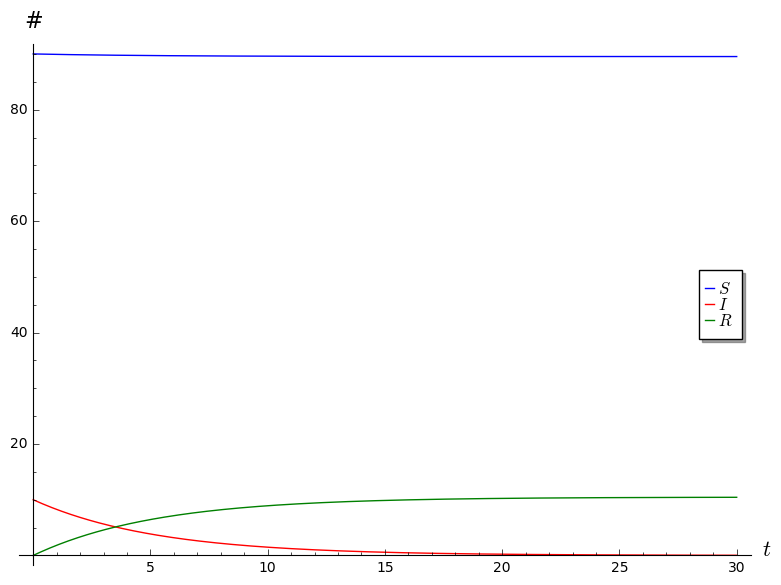
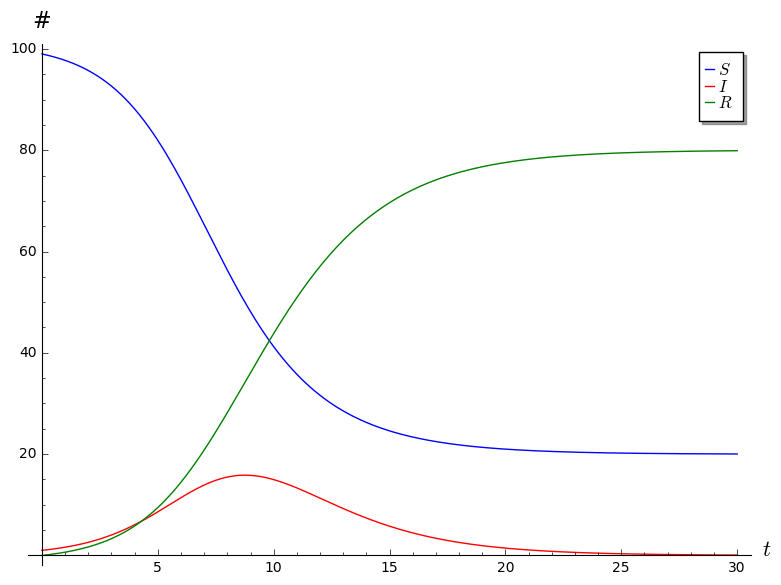
sir

diff --git a/_site/misc/index.html b/_site/misc/index.html
@@ -60,7 +60,7 @@ Shishir Agrawal — Miscellaneous
 <li><a href="https://jekyllrb.com/">Jekyll</a> (with plugins <a href="https://github.com/inukshuk/jekyll-scholar">Jekyll Scholar</a> and <a href="https://github.com/mfenner/jekyll-pandoc">Jekyll Pandoc</a>)</li>
 <li><a href="https://inkscape.org/">Inkscape</a></li>
 </ul>
-<p>The website was last updated on November 7, 2019.</p>
+<p>The website was last updated on November 8, 2019.</p>
 
 </main>
 

diff --git a/teaching/fa19-b3_ma315/sir-revised.md b/teaching/fa19-b3_ma315/sir-revised.md
@@ -1,0 +1,211 @@
+---
+layout: default
+title: SIR Project
+bannertext: Fall 2019, Block 3 — MA315
+bannerlink: teaching/fa19-b3_ma315
+nonav: true
+---
+
+# SIR Project
+
+This project[^reference] asks you to explore an ODE model that is used in epidemiology. The output of this project is a report. You're strongly encouraged to discuss with each other, but you should write up your report individually in your own words. One part of the project will involve generating some data in groups; your analysis should still be written up individually.
+
+[^reference]: This project is adapted from the SIR project described by Stanley Florkowski and Ryan Miller on [SIMIODE](https://www.simiode.org/resources/4796/download/6-018-S-ExploringSIRModel-StudentVersion.pdf?b192279d45ce41a0fded95960ba3c998=1), and from ideas I got from conversations with Andrea Bruder.
+
+Email me your report as a PDF by 11:59pm on 3rd Wednesday.
+
+## Introduction
+
+A *compartmental model* in epidemiology is one that divides the population into various groups (or compartments) in order to model the spread of an infection. The SIR model is an important example of a compartment model; it uses a nonlinear system of ODEs to model the spread of a non-fatal infection through a population. It derives its name from the names of the three groups that it divides the population into:
+
+1. The people that are <strong>S</strong>usceptible to catching the disease but are currently uninfected.
+2. The people that are currently <strong>I</strong>nfected.
+3. The people that are immune to the disease, either inherently, or because they have <strong>R</strong>ecovered from the infection and have now developed immunity.
+
+Let $t$ denote the number of days that have elapsed since the infection begins to spread; we let $S(t)$, $I(t)$, and $R(t)$ be the number of people in each of the above categories on day $t$. The model makes several simplifying assumptions and uses it to derive a system of ODEs satisfied by the functions $S$, $I$, and $R$.
+
+1. The total population $$N = S(t) + I(t) + R(t)$$ is always constant. In other words, this model makes the most sense for infections that spread in relatively short periods of time (much shorter than the life span of a human being) and do not kill off those who get infected.
+
+2. Each infected person infects a fixed fraction, $b$, of susceptible people every day. In other words, each infected person causes $bS(t)$ new infections on day $t$, so $dS/dt = -bSI$.
+
+3. A fixed fraction, $c$, of infected individuals recover every day. In other words, $dR/dt = cI$.
+
+Putting the above assumptions together, we find $dI/dt = bSI - cI$. In other words, the SIR model asserts that the functions $S$, $I$, and $R$ satisfy the following system of ODEs.
+$$\begin{aligned}
+\frac{dS}{dt} &= -bSI \\
+\frac{dI}{dt} &= bSI - cI \\
+\frac{dR}{dt} &= cI
+\end{aligned}$$
+
+## Part 1
+
+Answer the following questions.
+
+1. Why does it make sense for $dS/dt$ to be negative and $dR/dt$ to be positive?
+2. What real world constraints does our model impose on the parameters $b$ and $c$?
+3. Explain how one derives the equation for $dI/dt$ from the other three equations.
+4. What terms make this system of ODEs nonlinear?
+5. What should happen to $S(t), I(t)$ and $R(t)$ as $t \to \infty$?
+6. Prove that, if $S(0) < c/b$, then $I$ is monotonically decreasing.
+7. Describe a real world interpretation of the ratio $c/b$.
+
+## Interlude
+
+Parts 2 and 3 will ask you to do some numerical calculations using a computer. If you are already comfortable with some programming language that can do numerical calculations with systems of ODEs, I encourage you to use that it. This should be possible with most high-level mathematical programming software (Sage, R, Octave/MATLAB, Maple, Mathematica...), and there are probably libraries that will do this for lower-level programming languages (C, Java...).
+
+If you don't have one you're comfortable with yet, I suggest familiarizing yourself with one of the open-source ones. You do have access to licenses to some proprietary software through CC, but you won't after you graduate. My suggestion is [SageMath](https://www.sagemath.org/).
+
+Here is some Sage code that will generate plots of $S$, $I$ and $R$ for $t = 0$ through $t = 30$ using the parameters $b = 0.01$, $c = 0.1$, and $N = 100$, and the initial conditions $I(0) = 1$, $R(0) = 0$, and $$S(0) = N - (I(0) + R(0)) = 99.$$
+
+~~~Python
+# Parameters
+b = 0.01
+c = 0.1
+N = 100
+
+# Initial conditions
+I_0 = 1
+R_0 = 0
+S_0 = N - (I_0 + R_0)
+
+# Endpoint time
+T = 30
+
+# Step size (the smaller this number, the more accurate the solutions, but the more time the computation will take)
+s = 0.1
+
+# Solve system numerically
+S, I, R, t = var('S, I, R, t')
+P = desolve_system_rk4([-b*S*I, b*S*I - c*I, c*I], [S, I, R], ivar=t, ics=[0, S_0, I_0, R_0], step=s, end_points=T)
+Ss = [ [i,j] for i, j, k, l in P]
+Is = [ [i,k] for i, j, k, l in P]
+Rs = [ [i,l] for i, j, k, l in P]
+
+# Generate plots
+plot = list_plot(Ss, color="blue", plotjoined=True, legend_label='$S$', axes_labels=['$t$','#']) + list_plot(Is, color="red", legend_label='$I$', plotjoined=True) + list_plot(Rs,  color="green", legend_label='$R$', plotjoined=True)
+
+# Show plot
+plot.show()
+
+# To save your plot, use plot.save("location/of/file/to/save/to.png")
+~~~
+
+I encourage you to toy around with the code until you've figured out what's going on. It may be worth pointing out that the object <code>Ss</code> is a list consisting of pairs $[t, S(t)]$, and similarly with <code>Is</code> and <code>Rs</code>. The output of the above code is the following plot.
+
+<img src="sir-sample.png" style="width: 80%;"/>
+
+## Part 2
+
+Colorado Springs has a population of about 500,000. Suppose that initially just 1 person contracts an infection that's very contagious, but not very deadly. No one is immune initially, but people develop immunity after they've recovered from the infection. Each infected person infects 0.0005% of the susceptible population every day, and 40% of the infected population recovers every day.  
+
+1. What values of the parameters $b$ and $c$ are suggested by the above description? What initial conditions $S(0)$, $I(0)$, and $R(0)$ are suggested?
+2. Generate a plot showing how $S$, $I$, and $R$ vary with time until day 40. Be sure your plot is clearly labeled.
+3. On what day is the infected population the highest?
+
+Now assume that 40% of the population is inherently immune to this infection.
+
+4. How do the initial conditions and/or parameters change under this assumption?
+5. Generate a plot showing how $S$, $I$, and $R$ vary with time.
+6. At what point is over 90% of the population immune to the infection?
+
+## Part 3
+
+For this part, you'll generate some data modeling the spread of a zombie virus in groups of 3-4 using some markers and hex grid transparencies, and then fit an SIR model to the data you collect from your simulation. I'll explain the details of how the mechanics of simulation will go in class.
+
+In a small town of 50 inhabitants, 1 person has been infected by a zombie virus. As a group, decide on some infection rules, recovery rules, and movement rules. How close does a human have to be to be infected by a zombie? How many humans or cells can one zombie infect in a single time step? How many cells can a human move in a single time step? How many cells can a zombie move in a single time step? How do you deal with the edge of the grid? Are any of the humans immune from zombiehood from the outset? Under what conditions does a zombie recover and become immune from zombiehood?
+
+You should assume that humans and zombies do not reproduce or die, so that the total population is always 50, but aside from that, feel free to decide on rules however you like, and to clearly record all of the rules you're using to generate your data.
+
+Then run the simulation and generate your data. Use a spreadsheet to record your data in a table that looks something like the following. Or just use a plain text CSV file. Keep running your simulation until either it is clear to you that nothing is going to change, or until you hit time step 40.
+
+<table style="display: block; margin: auto; width=80%">
+<tr>
+<th>$t$</th>
+<th>$S(t)$</th>
+<th>$I(t)$</th>
+<th>$R(t)$</th>
+</tr>
+
+<tr>
+<td>0</td>
+<td>?</td>
+<td>1</td>
+<td>?</td>
+</tr>
+
+
+<tr>
+<td>1</td>
+<td>?</td>
+<td>?</td>
+<td>?</td>
+</tr>
+</table>
+
+Once you have your data, your job is to find the parameters $b$ and $c$ that fit your data well, and to generate a plot that looks something like the following (where the points represent the data that you actually collected from the simulation, and the curves are the solutions generated by the SIR model).
+
+<img src="sir-sample-2.png" style="width: 80%;"/>
+
+You can do this by guessing and checking various values of the parameters $b$ and $c$ until you find something that works reasonably well. For an optional challenge, try to figure out a way to find optimal[^optimal] values for the parameters :)
+
+[^optimal]: There are probably many ways of defining "optimal," and even with a fixed definition of "optimal," there are many ways of finding those optimal parameters. You'll have to figure out both of these things if you decide to do this challenge. If you'd like some possible hints, come talk to me!
+
+Note that I artificially concocted the simulation data displayed in the above plot precisely so that the ODE model fits the data reasonably well. Your model might not fit your data as well, and that's perfectly okay. Share the plot using the best values of $b$ and $c$ you can find, and then answer the following questions.
+
+1. What values did you use for the parameters? How did you choose the parameters? 
+2. Are there particular regions where the model seems to fit your data well? Are there particular regions where it doesn't fit very well?
+3. If you couldn't find any set of parameters that fit well, can you explain why? Was there something about the rules for infection/movement/recovery you decided on for the simulation that broke down the assumptions of the SIR model?
+
+If you're using Sage and you have a CSV file containing your data, you should be able to use something like the following to generate these kinds of plots.
+
+~~~Python
+import csv
+file = '/location/of/data/file.csv'
+
+# Parameters
+b = 0.01
+c = 0.1
+N = 100
+
+# Initial conditions
+I_0 = 1
+R_0 = 0
+S_0 = N - (I_0 + R_0)
+
+# Endpoint time
+T = 30
+
+# Step size
+s = 0.1
+
+# Solve system numerically
+S, I, R, t = var('S, I, R, t')
+P = desolve_system_rk4([-b*S*I, b*S*I - c*I, c*I], [S, I, R], ivar=t, ics=[0, S_0, I_0, R_0], step=s, end_points=T)
+Ss = [ [i,j] for i, j, k, l in P]
+Is = [ [i,k] for i, j, k, l in P]
+Rs = [ [i,l] for i, j, k, l in P]
+
+# Get data from file
+reader = csv.reader(open(file))
+data = []
+for row in reader:
+    i, j, k, l = row
+    data.append([float(i), float(j), float(k), float(l)])
+Sdata = [ [i,j] for i, j, k, l in data]
+Idata = [ [i,k] for i, j, k, l in data]
+Rdata = [ [i,l] for i, j, k, l in data]
+
+# Make plot
+plot = list_plot(Ss, color="blue", plotjoined=True, legend_label='$S$', axes_labels=['$t$','#']) + list_plot(Is, color="red", legend_label='$I$', plotjoined=True) + list_plot(Rs,  color="green", legend_label='$R$', plotjoined=True)
+plot += list_plot(Sdata, color="blue") + list_plot(Idata, color="red") + list_plot(Rdata,  color="green")
+plot.show()
+~~~
+
+## Part 4
+
+Describe another scenario, besides the spread of an infection, that could reasonably be modeled using the SIR system of ODEs: $$\begin{aligned}
+\frac{dS}{dt} &= -bSI \\
+\frac{dI}{dt} &= bSI - cI \\
+\frac{dR}{dt} &= cI
+\end{aligned}$$
+Be sure to explain precisely what $S$, $I$, and $R$ stand for in your model. What units do they have? What real world interpretation do the parameters $b$ and $c$ have? What simplifying assumptions about the scenario make this system of ODEs appropriate?

diff --git a/teaching/fa19-b3_ma315/sir-comments.md b/teaching/fa19-b3_ma315/sir-comments.md
@@ -8,16 +8,41 @@ nonav: true
 
 # SIR Project Comments
 
+Here are some of the common mistakes I noticed when going through the SIR projects.
+
 * Part I
-    * Question 2. I was looking for the observation that b and c are both forced to be between 0 and 1, together with some justification of this.
+    * Question 2. I was looking for the observation that b and c are both forced to be between 0 and 1, since they are both fractions. 
 
-    * Question 3. I was looking for something along the lines of the following: Since $S + I + R = N$ is constant, we have $S' + I' + R' = 0$, which means that $I' = - S' - R'$.
+    * Question 3. I was looking for something along the lines of the following: Since $S + I + R = N$ is constant, we have $S' + I' + R' = 0$, which means that $I' = - S' - R'$.  if
 
-    * Question 5. All of you said that $S \to 0$ as $t \to \infty$. That's fine, and I didn't take off points for this, but this is not quite true: all that we know is that $S$ must stabilize at some value between 0 and $N$, but there is no guarantee that that value be 0. This will happen when the disease is not very virulent: recovery happens quickly (ie,$c$ is large), and the disease speads slowly (ie, $b$ is small). Here is a picture of this kind of situation. In this plot, we have $c = 0.2$, $b = 0.0001$, $R(0) = 0$, and $I(0) = 10$.
+    * Question 5. All of you said that $S \to 0$ as $t \to \infty$. That's fine, and I didn't take off points for this, but this is not quite true: all that we know is that $S$ must stabilize at some value between 0 and $N$, but there is no guarantee that that value be 0. This will happen when the disease is not very virulent: recovery happens quickly (ie,$c$ is large), and the disease speads slowly (ie, $b$ is small). Here is a picture of this kind of situation. In this plot, we have $c = 0.5$, $b = 0.01$, $R(0) = 0$, and $I(0) = 1$.
         <img src="sir-sample-3.png" style="width: 80%;"/>
 
-        If we let $S_\infty = \lim S(t)$, then what we know is that $R \to N - S_\infty$ and $I \to 0$ as $t \to \infty$, because every infected person will eventually recover.
+        Here's a question I have: must it be the case that $I \to 0$ as $t \to \infty$? It seems like this should be true, and I haven't been able to come up with a counterexample, but I don't know how to prove this directly from the differential equations...
 
-    * Question 6. I was looking for something along the following lines: Observe that \[ \frac{dI}{dt} = bSI - cI = b\left(S - \frac{c}{b} \right)I. \] We know that $b \geq 0$. If $S(0) < c/b$, since $S$ is monotonically decreasing, we know that $S(t) < c/b$ for all $t$. Thus $S - c/b < 0$, so $dI/dt < 0$, which means that $I$ is monotonically decreasing.
+    * Question 6. I was looking for something along the following lines: Observe that
+    $$ \frac{dI}{dt} = bSI - cI = b\left(S - \frac{c}{b} \right)I.$$
+    We know that $b \geq 0$, so the sign of $dI/dt$ matches the sign of $S - c/b$. Suppose $S(0) < c/b$. Since $dS/dt < 0$, we know that $S$ is monotonically decreasing, so $S(t) < c/b$ for all $t$. Thus $dI/dt < 0$, which means that $I$ is monotonically decreasing.
 
-    This analysis also tells us that, even if $S(0) > c/b$, we know as soon as $S(t) < c/b$, the infected population will start decreasing. 
+        This analysis also tells us that, even if $S(0) \geq c/b$, as soon as we hit a time $t_0$ such that $S(t_0) < c/b$, the infected population will decrease after $t_0$.
+
+        It is also worth pointing out that you *cannot* conclude that $I = e^{(bS - c)t}$, since $S$ is itself varying with time! If you differentiate $e^{(bS-c)t}$ with respect to time, keeping in mind the chain and product rules, you find that
+        $$ \frac{d}{dt}e^{(bS-c)t} = \left(b \frac{dS}{dt} + (bS-c) \right) e^{(bS-c)t} $$
+        which shows that $I = e^{(bS-c)t}$ does not satisfy the differential equation that $I$ needs to satisfy.
+
+    * Question 7. This is very confusing, so I didn't take off any points here no matter what you said. That said, here are some thoughts. First of all, notice that, in order for the units on the equation for $dS/dt$ to work out, $b$ needs to have units $1/(\text{people} \cdot \text{days})$. Then, in order for the units on the equation for $dR/dt$ to work out, $c$ needs to have units $1/\text{days}$. This means that the units on the quantity $c/b$ is people. (This makes some sense, since in the previous problem, we were comparing $S$ and $c/b$. We know that $S$ has units people, and a comparison between two quantities only makes sense if the two have the same units.)
+
+        But what number of people is $c/b$? Well, on a particular day, we have
+        $$ c = \frac{\text{new recoveries}}{\text{infected}} $$
+        and
+        $$ b = \frac{ \frac{\text{new infections}}{\text{susceptible}} }{\text{infected}} $$
+        which means that
+        $$ \frac{c}{b} = \frac{ \text{new recoveries} }{ \text{new infections} } \cdot \text{susceptible}. $$
+        In other words, $c/b$ is the answer to the following question: if, on a particular day, all of the susceptible people become newly infected, how many people would recover on that day?
+
+        Another interpretation for $c/b$ falls out of the analysis we did in the previous question. More specifically, $c/b$ marks a "critical population" of susceptibles: the pointn when $S = c/b$ is the point when the infected population will start decreasing.
+
+        One final interpretation is that $c/b$ is that this is some kind of a measure of the virulence of the disease (or rather, non-virulence): as $c/b$ decreases towards 0, the infection spreads more and more rapidly. This is probably the easiest interpretation to see, but it's a little vague and the units of $c/b$ are completely opaque in this interpretation.
+
+* Part II
+    *  Question 6. This happens somewhere between $t = 17.1$ and $t = 17.2$. In other words, I was looking for something like "around day 17."
